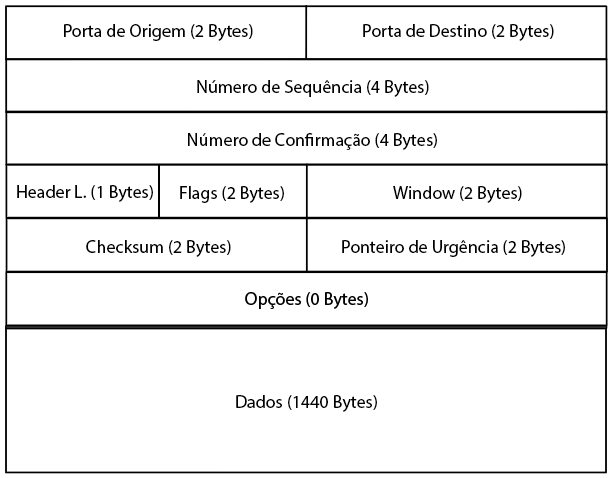
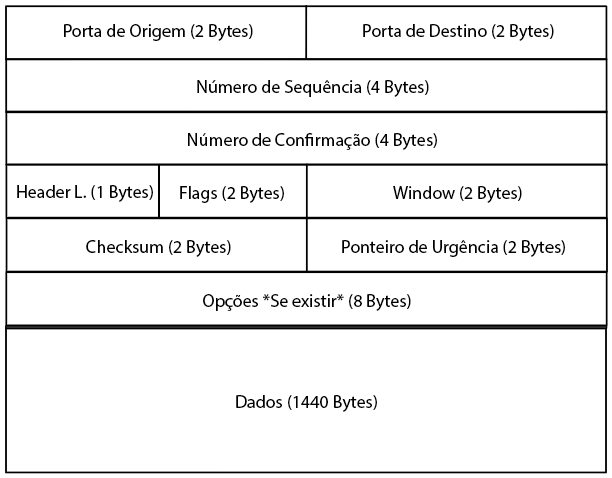
Editing

Changed region(s): [[0.3105, 0.6151, 0.683, 0.6444]]

diff --git a/Relatorio_from_zero/Paginas/pag4.html b/Relatorio_from_zero/Paginas/pag4.html
@@ -28,11 +28,15 @@
 
             <p><img style="height: 350px; width: 450px;" src="../Imagens/TCP.gif" alt="three way handshake"></p>
 
-            <h3>3.4 TCP: transferência de dados</h3>
+            <h3>3.4 Opções de Conexão</h3>
+            <p>Quais opções TCP são transportadas nos pacotes SYN para o seu rastreamento?</p>
+
+            <h3>3.5 TCP: transferência de dados</h3>
             <ol>
                 <li>Qual é a taxa de dados aproximada na direção do download em pacotes/segundo e bits/segundo, uma vez que a conexão TCP está funcionando bem?</li>
                 <li>Que porcentagem dessa taxa de download é conteúdo? Mostre seu cálculo. Para descobrir, veja um pacote de download típico; deve haver muitos pacotes de download grandes semelhantes. Você pode ver quanto tempo ele tem e quantos bytes de carga TCP ele contém.</li>
                 <li>Qual é a taxa de dados aproximada na direção de upload em pacotes/segundo e bits/segundo devido aos pacotes ACK?</li>
+                <li>Se o segmento TCP recebido mais recentemente do servidor tiver um número de sequência X, então qual número ACK o próximo segmento TCP transmitido carregará?</li>
             </ol>
         </div>
     </div>
